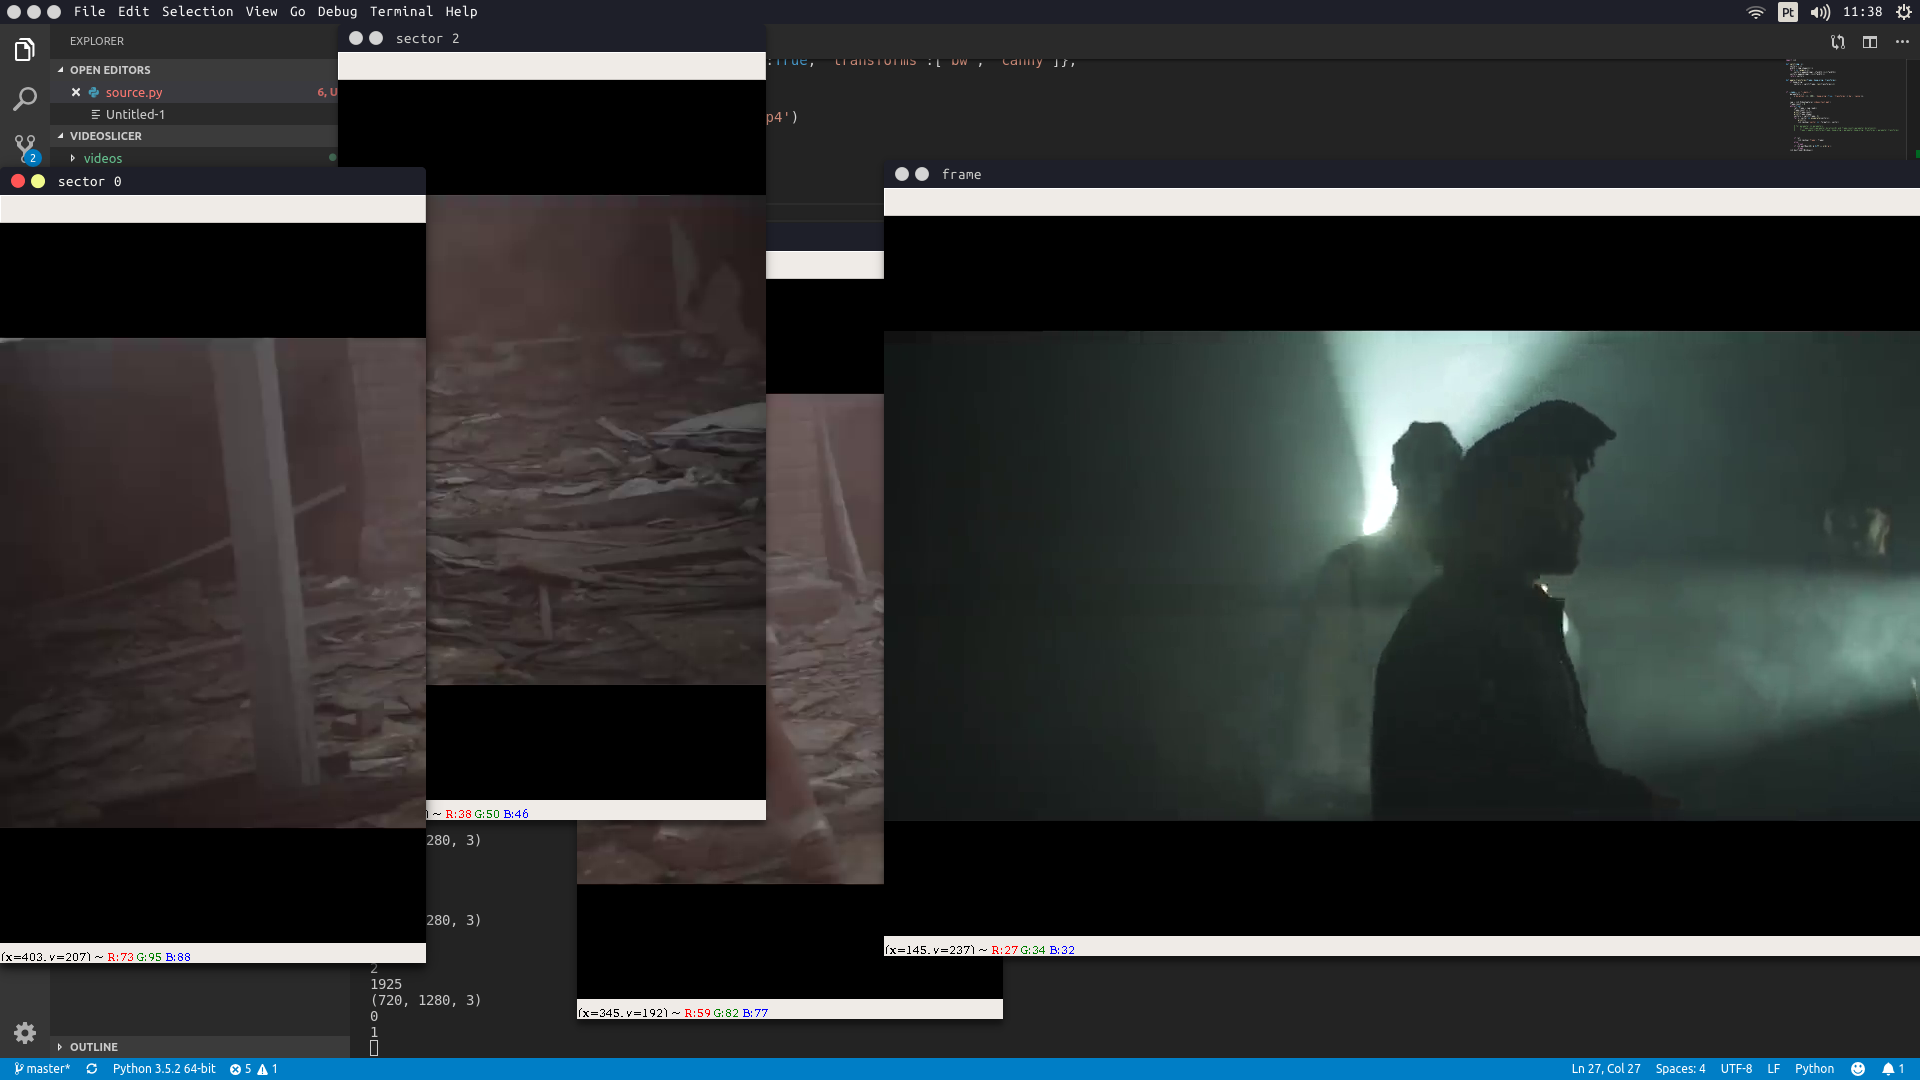
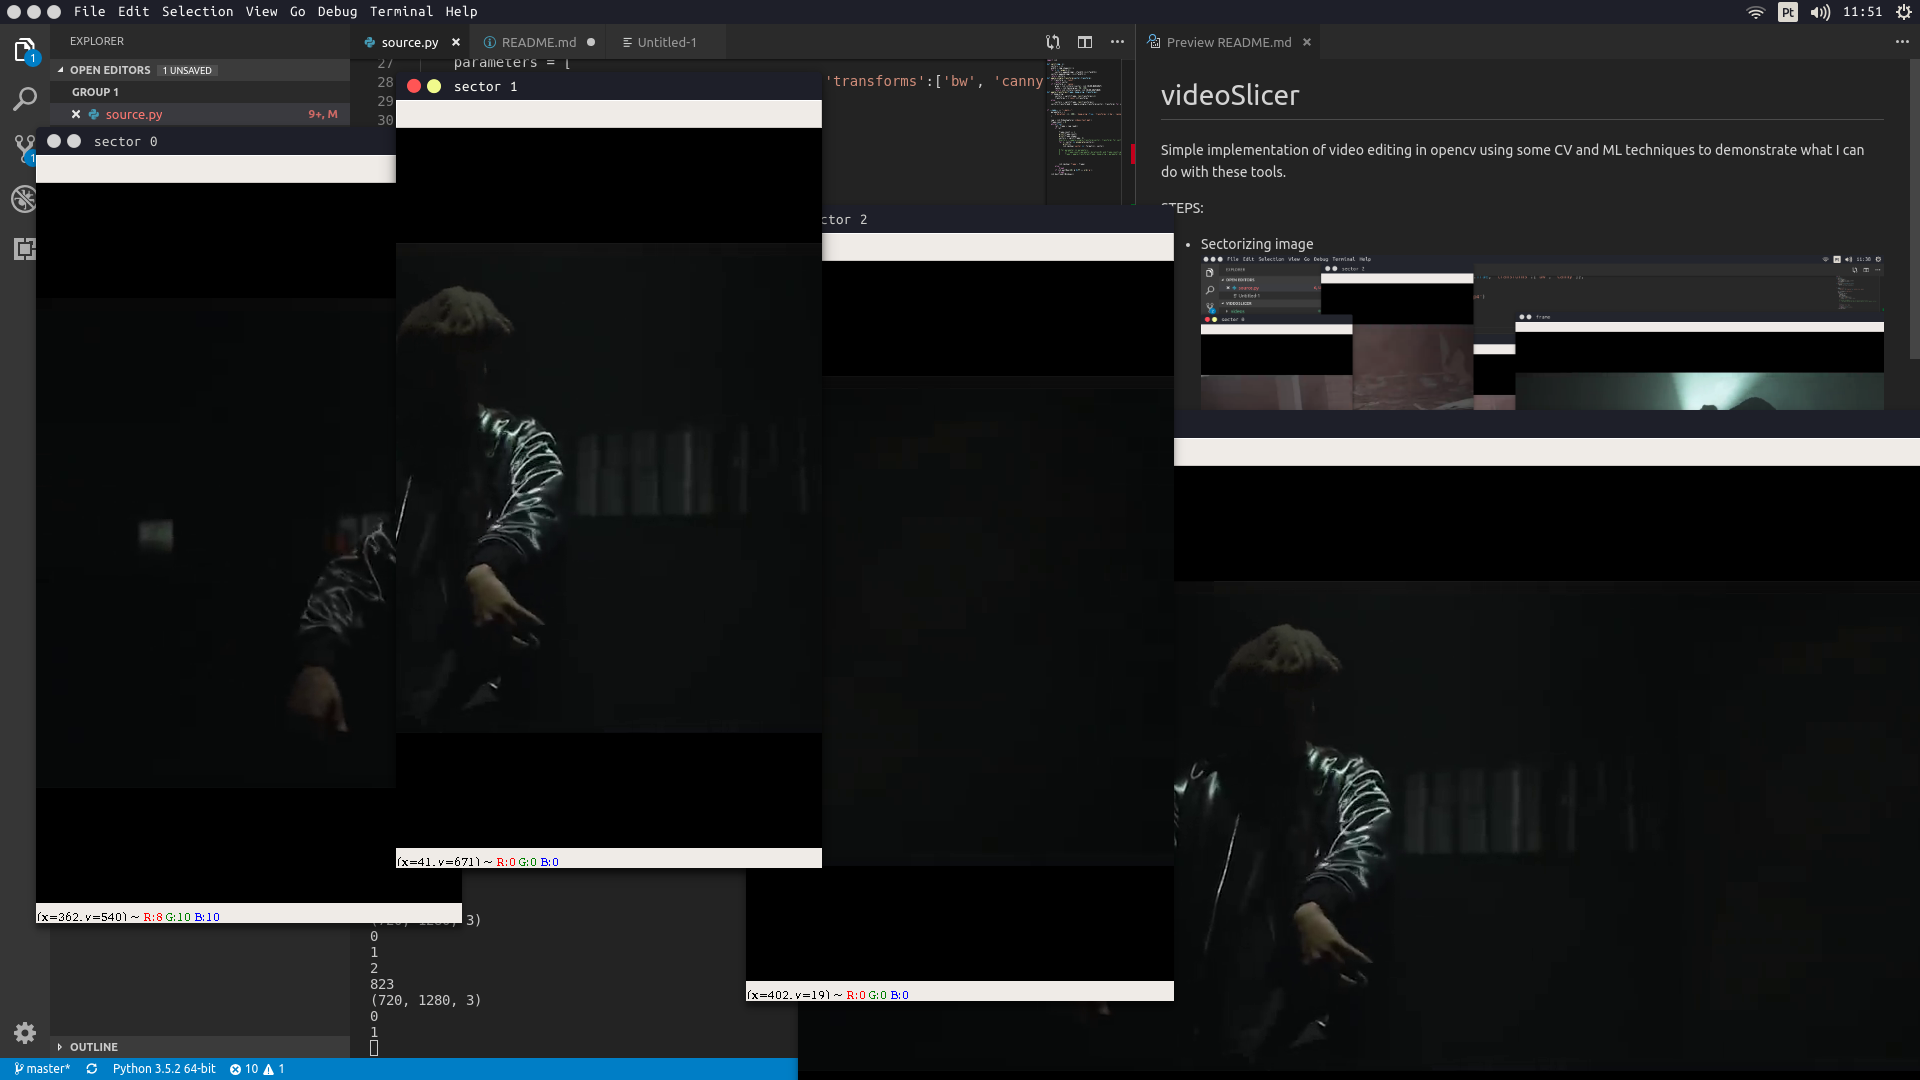
updated README

diff --git a/source.py b/source.py
@@ -32,22 +32,24 @@ if __name__ == "__main__":
     frame_count = 0
     while(True):
         ret, frame = cap.read()
-        frame_count += 1
-        print(frame_count)
-        print(frame.shape)
-        sectors = split(frame, 2)
-        sectors = [apply_single_transform(sector, transform) for sector,transform in zip(sectors,['const', 'canny'])]
-        for i, sector in enumerate(sectors):
-            print(i)
-            cv2.imshow('sector {}'.format(i), sector)
-        
-        # for parameter in parameters:
-        #     if frame_count>=parameter.duration[0] and frame_count<=parameter.duration[1]:
-        #     frame = apply_transforms(frame, keep_orig = parameter.keep_orig, transforms = parameter.transforms)
-                
-
-
         if ret:
+            
+            frame_count += 1
+            print(frame_count)
+            print(frame.shape)
+            sectors = split(frame, 3)
+            #sectors = [apply_single_transform(sector, transform) for sector,transform in zip(sectors,['const', 'canny'])]
+            for i, sector in enumerate(sectors):
+                print(i)
+                cv2.imshow('sector {}'.format(i), sector)
+            
+            # for parameter in parameters:
+            #     if frame_count>=parameter.duration[0] and frame_count<=parameter.duration[1]:
+            #     frame = apply_transforms(frame, keep_orig = parameter.keep_orig, transforms = parameter.transforms)
+                    
+
+
+        
             cv2.imshow('frame', frame)
         else:
             break

diff --git a/README.md b/README.md
@@ -1,2 +1,9 @@
 # videoSlicer
 Simple implementation of video editing in opencv using some CV and ML techniques to demonstrate what I can do with these tools.
+
+STEPS:
+
+- Sectorizing image
+![Alt text](images/splitting_in_sectors.png?raw=true "split")
+- Applying basic transformations to sectors
+![Alt text](images/transforming_sectors.png?raw=true "split")
